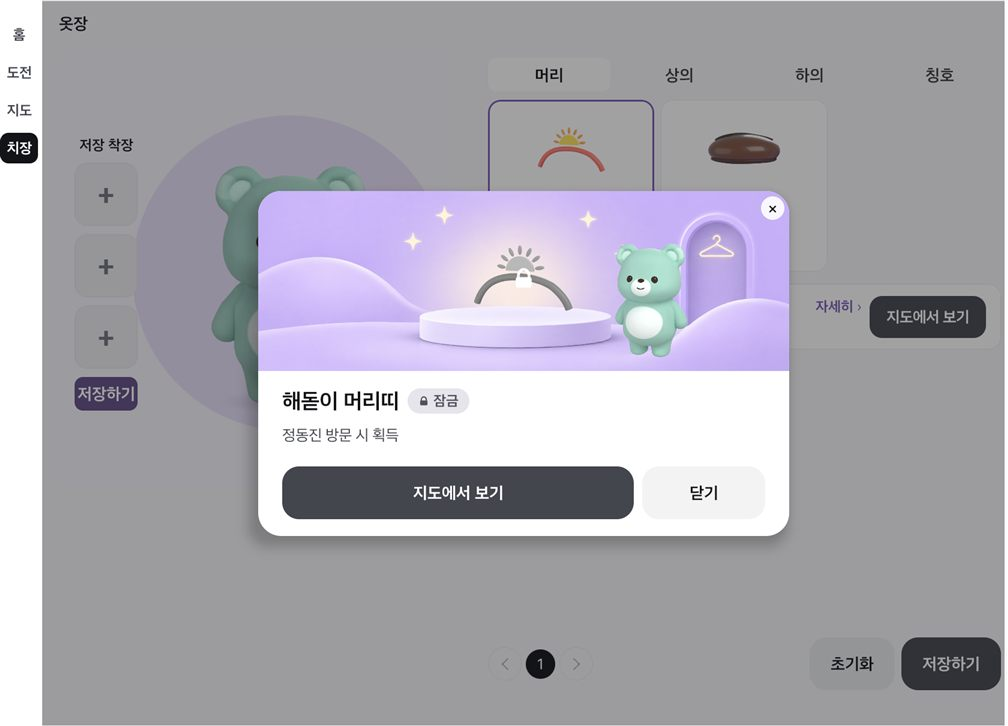
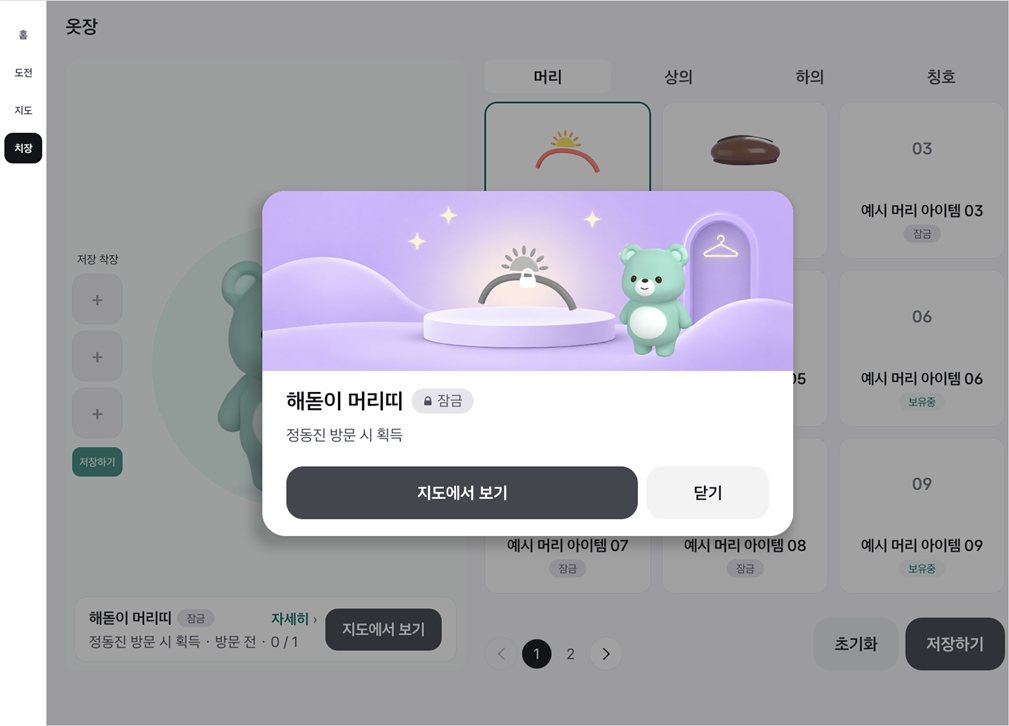
Retake closet info line verification on the merged layout
Screens are from the Pleos Connect emulator (Full and the vertical Split slot) after merging the 3x3 grid and skin palettes.

diff --git a/docs/verification/closet-info-line/README.md b/docs/verification/closet-info-line/README.md
@@ -1,34 +1,36 @@
-# 치장: 팝업 대신 정보 줄 (2026-11-11)
+# 치장: 팝업 대신 정보 줄 (2026-11-12 다시 확인)
 
 치장에서 아이템을 누를 때마다 팝업이 화면을 덮어 [닫기]를 한 번 더 눌러야 했던 것을 고친 변경의 확인 기록.
+11/12에 옷장 배치·스킨 색 변경(#28, Full 3×3 그리드)과 합치면서 정보 줄의 자리를 옮기고 다시 찍었다.
 
 - 보유 아이템: 누르면 팝업 없이 바로 입혀 본다. 정보 줄에 받은 날·곳.
 - 잠긴 아이템: 정보 줄에 얻는 조건·진행과 획득처 버튼.
 - 정보 줄의 "자세히 ›"(줄 전체)를 누르면 기존 팝업(Figma 2021:5094 / 2071:7596)이 열린다.
-- Full: Pleos Connect v2.1.0 에뮬레이터 (앱 창 1682×1210, 0.6배). Split: 폰 에뮬레이터 세로 1080×2400 (0.4배). Mock 신호.
+- 정보 줄 자리: Full은 미리보기 아래쪽(곰 발밑), Split은 페이지 넘김 아래.
+- Pleos Connect v2.1.0 에뮬레이터, 민트 곰(P02), 예시 데이터 켬, Mock 신호. Full: 앱 창 1682×1210. Split: 세로 슬롯 841×1210. 모두 0.6배로 줄였다.
 
 ## Full
 
-| 잠긴 아이템을 누름 | "자세히"를 누름 | 뒤로 키 한 번 (팝업만 닫힘) | 보유 아이템을 누름 |
-|---|---|---|---|
-| ![](full-locked.jpg) | ![](full-details-popup.jpg) | ![](full-back-once.jpg) | ![](full-owned.jpg) |
+| 잠긴 아이템을 누름 | "자세히"를 누름 | 뒤로 키 한 번 (팝업만 닫힘) | 보유 아이템을 누름 | 주행 중 |
+|---|---|---|---|---|
+| ![](full-locked.jpg) | ![](full-details-popup.jpg) | ![](full-back-once.jpg) | ![](full-owned.jpg) | ![](full-driving.jpg) |
 
-## Split
+## Split (Pleos 세로 슬롯)
 
-| 보유 아이템을 누름 | 잠긴 아이템을 누름 | "자세히"를 누름 | 주행 중 |
-|---|---|---|---|
-| ![](split-owned.jpg) | ![](split-locked.jpg) | ![](split-details-popup.jpg) | ![](split-driving.jpg) |
+| 잠긴 아이템을 누름 | "자세히"를 누름 | 보유 아이템을 누름 | 아래로 밀었을 때 | 주행 중에 카드를 누름 |
+|---|---|---|---|---|
+| ![](split-locked.jpg) | ![](split-details-popup.jpg) | ![](split-owned.jpg) | ![](split-owned-scrolled.jpg) | ![](split-driving.jpg) |
 
 ## 본 것
 
-- 보유 아이템을 누르면 팝업 없이 곰이 바로 그 옷을 입는다. 착용 중인 아이템을 누르면 벗는다 (전과 같다).
-- 잠긴 아이템: 정보 줄에 "정동진 방문 시 획득 · 방문 전 · 0 / 1", 칭호는 "랜드마크 10회 방문 · 3 / 10회"처럼 진행이 붙는다.
-- [지도에서 보기]를 누르면 지도 탭의 그 랜드마크로 간다 (Split, 커피콩 모자 → 강릉시 시내 13개 동).
-- 뒤로 키: 팝업이 열려 있으면 팝업만 닫히고, 한 번 더 누르면 정보 줄이 닫힌다 (Full·Split).
-- 주행 중(기어 D): 정보 줄과 팝업이 닫히고, 아이템을 눌러도 열리지 않는다.
+- 잠긴 아이템: 정보 줄에 "정동진 방문 시 획득 · 방문 전 · 0 / 1"처럼 조건과 진행이 붙고 [지도에서 보기]가 나온다. 선택 테두리와 "자세히"는 스킨 강조색이다.
+- Full: 그리드 세 줄이 다 차 있어도 정보 줄이 카드나 페이지 넘김·버튼을 가리지 않는다.
+- Split 슬롯: 잠긴 아이템을 누르면 화면이 정보 줄까지 내려가고 [초기화]·[저장하기]도 보인다. 보유 아이템을 누르면 내려가지 않아 곰이 계속 보이고, 손으로 밀면 정보 줄과 버튼이 나온다.
+- 뒤로 키: 팝업이 열려 있으면 팝업만 닫히고, 한 번 더 누르면 정보 줄과 선택 테두리가 지워진다 (Full·Split).
+- 주행 중(기어 D): 정보 줄·선택·팝업이 닫히고, 카드를 누르면 "주차 중에 이용할 수 있어요"만 뜬다. 버튼은 꺼진다.
 
 ## 알려 둘 것
 
 - 정보 줄은 Figma에 없는 자리다. 디자인 확인이 필요하다.
-- Split에서 정보 줄이 버튼 줄 위의 빈 자리를 쓴다. 설명이 두 줄을 넘는 아이템은 없어서 넘칠 때는 보지 못했다.
-- 못 본 것: 실차, Pleos Split(841×1210), 예시 데이터의 3페이지 이상.
+- Split 슬롯은 Figma Split(1080)보다 낮아(약 920dp) 화면이 한 번에 다 들어가지 않는다. 넘치는 만큼 세로로 밀리게 했다. 이전에는 슬롯에서 [초기화]·[저장하기]가 아예 보이지 않았다.
+- 못 본 것: 실차, 폰 세로 에뮬레이터(이번에는 슬롯만 봤다), 민트 외 스킨, 실제 보유 아이템(이 프로필은 보유 아이템이 없어 예시 아이템으로 봤다), [지도에서 보기] 이동(11/11에 본 뒤 다시 누르지 않았다).
